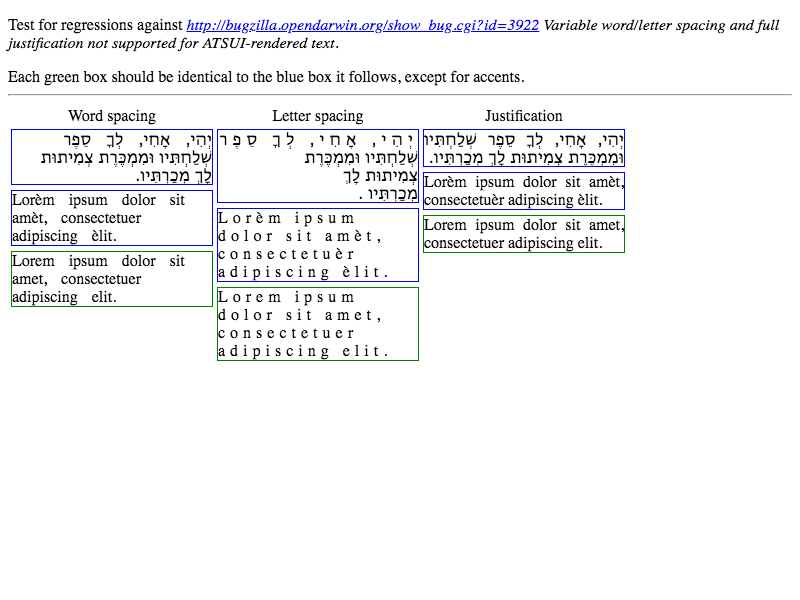
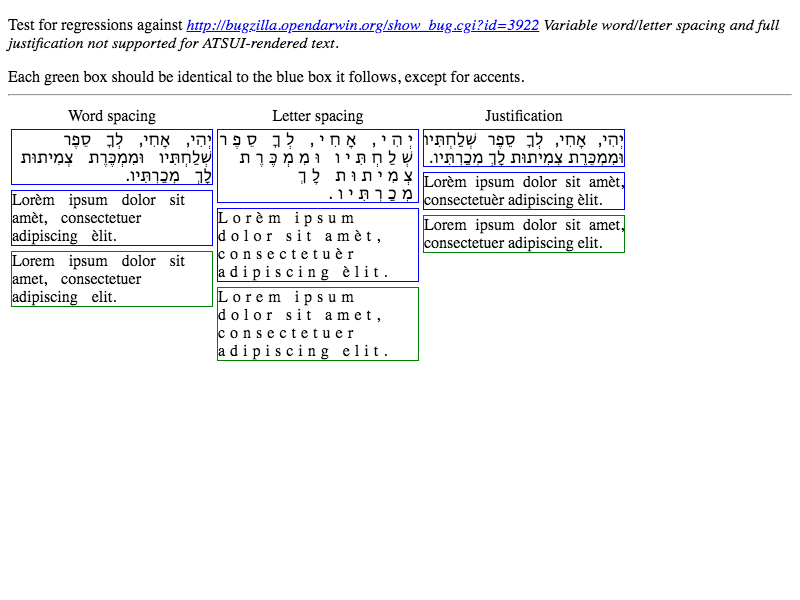
[LayoutNG] Fix letter-/word-spacing for following lines
This patch fixes |NGLineBreaker| to cache 'letter-/word-
spacing' values when it is constructed with a break token.

This seems to be an old bug. r527007 (crrev.com/c/846585)
initialized |current_style_| without calling
|SetCurrentStyle|. Then r590190 (crrev.com/c/1217708) skipped
caching locale and letter-/word-spacing in such case. The
issue has been there since then, but it seems r701601
(crrev.com/c/1826063) turned it to more frequent crashes.

Bug: 963521
Commit-Queue: Koji Ishii <kojii@chromium.org>
Cr-Original-Commit-Position: refs/heads/master@{#705051}
Cr-Mirrored-From: https://chromium.googlesource.com/chromium/src
Cr-Mirrored-Commit: 6b2d6c92738e56440f278165ed6c1fbcf165c91b

Changed region(s): [[0.2812, 0.24, 0.5312, 0.33], [0.0312, 0.24, 0.25, 0.33]]

diff --git a/blink/renderer/core/layout/ng/inline/ng_line_breaker.cc b/blink/renderer/core/layout/ng/inline/ng_line_breaker.cc
@@ -186,12 +186,14 @@ NGLineBreaker::NGLineBreaker(NGInlineNode node,
   break_iterator_.SetBreakSpace(BreakSpaceType::kBeforeSpaceRun);
 
   if (break_token) {
-    current_style_ = break_token->Style();
     item_index_ = break_token->ItemIndex();
     offset_ = break_token->TextOffset();
     break_iterator_.SetStartOffset(offset_);
     is_after_forced_break_ = break_token->IsForcedBreak();
     items_data_.AssertOffset(item_index_, offset_);
+    // TODO(crbug.com/1013040): |break_token->Style()| should not be nullptr.
+    if (const ComputedStyle* line_initial_style = break_token->Style())
+      SetCurrentStyle(*line_initial_style);
   }
 }
 
@@ -287,11 +289,13 @@ void NGLineBreaker::PrepareNextLine(NGLineInfo* line_info) {
     line_info->SetTextIndent(MinimumValueForLength(length, maximum_value));
   }
 
-  // Set the initial style of this line from the break token. Example:
+  // Set the initial style of this line from the line style, if the style from
+  // the end of previous line is not available. Example:
   //   <p>...<span>....</span></p>
   // When the line wraps in <span>, the 2nd line needs to start with the style
   // of the <span>.
-  SetCurrentStyle(current_style_ ? *current_style_ : line_info->LineStyle());
+  if (!current_style_)
+    SetCurrentStyle(line_info->LineStyle());
   ComputeBaseDirection();
   line_info->SetBaseDirection(base_direction_);
 
@@ -1826,6 +1830,23 @@ const ComputedStyle& NGLineBreaker::ComputeCurrentStyle(
 }
 
 void NGLineBreaker::SetCurrentStyle(const ComputedStyle& style) {
+  if (&style == current_style_.get()) {
+#if DCHECK_IS_ON()
+    // Check that cache fields are already setup correctly.
+    DCHECK_EQ(auto_wrap_, style.AutoWrap());
+    if (auto_wrap_) {
+      DCHECK_EQ(enable_soft_hyphen_, style.GetHyphens() != Hyphens::kNone);
+      DCHECK_EQ(break_iterator_.Locale(), style.LocaleForLineBreakIterator());
+    }
+    ShapeResultSpacing<String> spacing(spacing_.Text());
+    spacing.SetSpacing(style.GetFontDescription());
+    DCHECK_EQ(spacing.LetterSpacing(), spacing_.LetterSpacing());
+    DCHECK_EQ(spacing.WordSpacing(), spacing_.WordSpacing());
+#endif
+    return;
+  }
+  current_style_ = &style;
+
   auto_wrap_ = style.AutoWrap();
 
   if (auto_wrap_) {
@@ -1861,17 +1882,10 @@ void NGLineBreaker::SetCurrentStyle(const ComputedStyle& style) {
 
     if (style.WhiteSpace() == EWhiteSpace::kBreakSpaces)
       break_iterator_.SetBreakSpace(BreakSpaceType::kAfterEverySpace);
+
+    break_iterator_.SetLocale(style.LocaleForLineBreakIterator());
   }
 
-  // The above calls are cheap & necessary. But the following are expensive
-  // and do not need to be reset every time if the style doesn't change,
-  // so avoid them if possible.
-  if (&style == current_style_.get())
-    return;
-
-  current_style_ = &style;
-  if (auto_wrap_)
-    break_iterator_.SetLocale(style.LocaleForLineBreakIterator());
   spacing_.SetSpacing(style.GetFontDescription());
 }
 

diff --git a/blink/renderer/core/layout/ng/inline/ng_line_breaker_test.cc b/blink/renderer/core/layout/ng/inline/ng_line_breaker_test.cc
@@ -306,6 +306,26 @@ TEST_F(NGLineBreakerTest, WrapLastWord) {
   EXPECT_EQ("AAA BB CC", ToString(lines[1], node));
 }
 
+TEST_F(NGLineBreakerTest, WrapLetterSpacing) {
+  NGInlineNode node = CreateInlineNode(R"HTML(
+    <!DOCTYPE html>
+    <style>
+    #container {
+      font: 10px/1 Times;
+      letter-spacing: 10px;
+      width: 0px;
+    }
+    </style>
+    <div id=container>Star Wars</div>
+  )HTML");
+
+  Vector<NGInlineItemResults> lines;
+  lines = BreakLines(node, LayoutUnit(100));
+  EXPECT_EQ(2u, lines.size());
+  EXPECT_EQ("Star", ToString(lines[0], node));
+  EXPECT_EQ("Wars", ToString(lines[1], node));
+}
+
 TEST_F(NGLineBreakerTest, BoundaryInWord) {
   LoadAhem();
   NGInlineNode node = CreateInlineNode(R"HTML(

diff --git a/blink/renderer/platform/fonts/shaping/shape_result_spacing.h b/blink/renderer/platform/fonts/shaping/shape_result_spacing.h
@@ -34,7 +34,8 @@ class PLATFORM_EXPORT ShapeResultSpacing final {
         is_after_expansion_(false) {}
 
   const TextContainerType& Text() const { return text_; }
-  float LetterSpacing() const { return letter_spacing_; }
+  float LetterSpacing() const { return has_spacing_ ? letter_spacing_ : .0f; }
+  float WordSpacing() const { return has_spacing_ ? word_spacing_ : .0f; }
   bool HasSpacing() const { return has_spacing_; }
   bool HasExpansion() const { return expansion_opportunity_count_; }
 

diff --git a/blink/renderer/platform/text/text_break_iterator.h b/blink/renderer/platform/text/text_break_iterator.h
@@ -216,6 +216,7 @@ class PLATFORM_EXPORT LazyLineBreakIterator final {
     ReleaseIterator();
   }
 
+  const AtomicString& Locale() const { return locale_; }
   void SetLocale(const AtomicString& locale) {
     if (locale == locale_)
       return;
